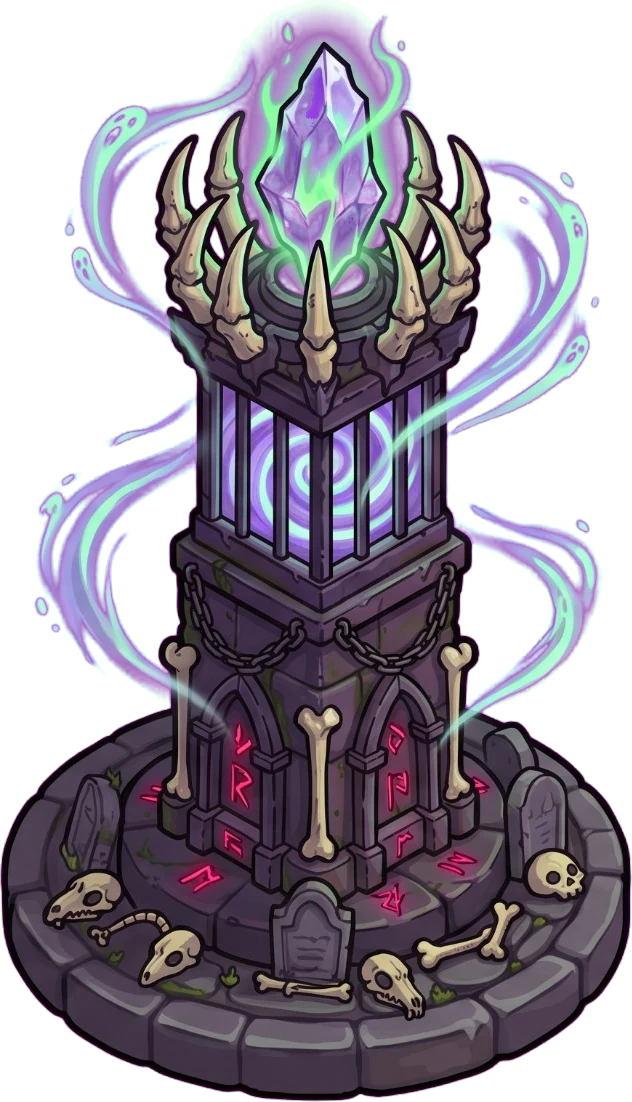
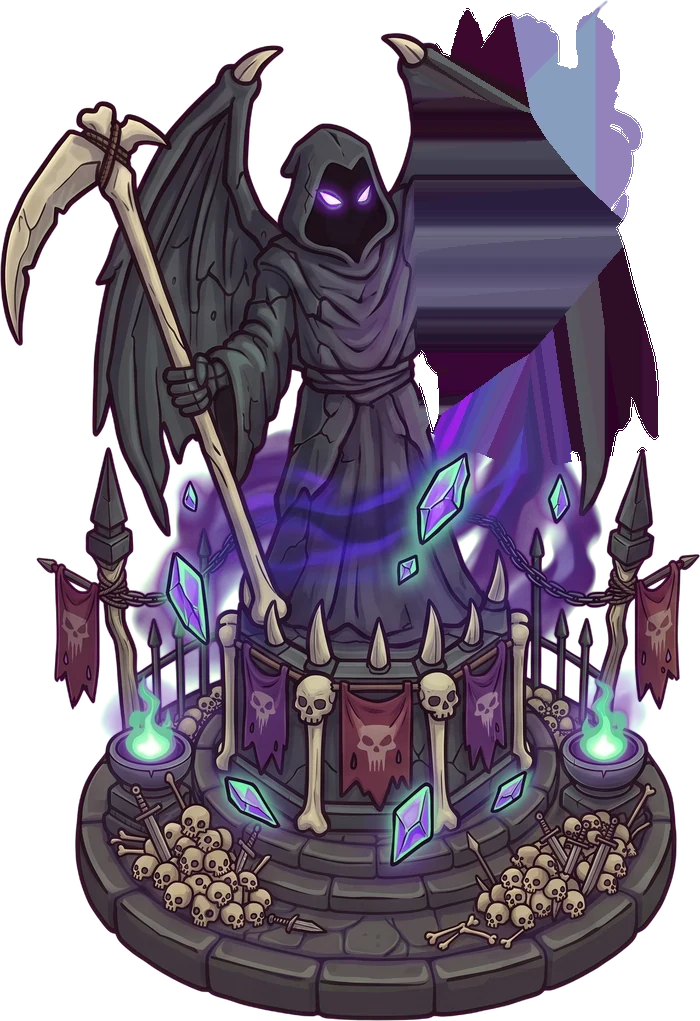
Ruh Feneri 4. kademe görselleri (Gemini): Ruh Emici (elinde ruh kristali, mor gözler) ve Ruh Kafesi (zincirli hayalet kafesi, kızıl gözler); kol ayrı katman (LANTERN_FORM): sallanır, savaşta kalkar, ışın kristal/kafesten çıkar. Eski 4. kademe fener görselleri ve saldırı şeritleri kalktı. Lanet Kules

diff --git a/sinir-kalesi/js/game.js b/sinir-kalesi/js/game.js
@@ -2727,7 +2727,7 @@ const angDiff = (a, b) => Math.atan2(Math.sin(a - b), Math.cos(a - b));
 const TOWER_EYE = { altar: [[0.5, 0.14], [0.48, 0.12], [0.505, 0.38]], archer: [[0.5, 0.14], [0.5, 0.1], [0.5, 0.12]], mage: [[0.72, 0.5], [0.5, 0.28], [0.5, 0.3]], artillery: [[0.47, 0.36], [0.42, 0.37], [0.45, 0.36]] };
 function towerEye(t, ts) {
   ts = ts || towerSprite(t);
-  if (NECRO && t.type === 'mage' && ts && lanternRig(t, ts)) return lanternPt(t, ts, LANTERN_RIG[t.lvl].core); // ışın ve ruhlar fenerin içinden
+  if (NECRO && t.type === 'mage' && ts && lanternRig(t, ts)) return lanternPt(t, ts, lanternRig(t, ts).core); // ışın ve ruhlar fenerin (kristalin, kafesin) içinden
   const E = (TOWER_EYE[t.type] || [])[t.lvl];
   if (!ts || !E) return { x: t.x, y: t.y - 40 };
   return { x: t.x - ts.w / 2 + E[0] * ts.w, y: ts.bottom - ts.h + E[1] * ts.h };
@@ -2909,7 +2909,7 @@ function updateTower(t, dt) {
         t.ghostCd = gh.cd; t.shotAnim = 0.3;
         G.ghosts.push({ p: q.p, d: q.along, end: q.along - L.range * 2.2, hit: new Set(), dmg: gh.dmg, fear: gh.fear, t: 0, x: q.x, y: q.y });
         const GF = towerForm(t), gts = GF && towerSprite(t);
-        if (GF && GF.cageAt && gts) { const c = formPoint(t, gts, GF.cageAt); G.effects.push({ kind: 'zap', x0: c.x, y0: c.y, x1: q.x, y1: q.y - 10, t: 0, dur: 0.35, w: 1.4, seed: rand(0, 99), col: 'rgb(190,140,255)' }); } // hayalet kafesten süzülür
+        if (GF && GF.cageAt && gts) { const c = lanternRig(t, gts) ? towerEye(t, gts) : formPoint(t, gts, GF.cageAt); G.effects.push({ kind: 'zap', x0: c.x, y0: c.y, x1: q.x, y1: q.y - 10, t: 0, dur: 0.35, w: 1.4, seed: rand(0, 99), col: 'rgb(190,140,255)' }); } // hayalet kafesten süzülür
         sfx('scream');
       } else t.ghostCd = 0.4;
     }
@@ -2923,7 +2923,7 @@ function updateTower(t, dt) {
       if (v) {
         t.cageCd = CF.cage.cd; const T = CF.cage.t * (v.def.chief ? 0.5 : 1);
         v.cageT = T; stunEnemy(v, T); t.shotAnim = 0.3;
-        const cts = towerSprite(t), c = cts ? formPoint(t, cts, CF.cageAt) : { x: t.x, y: t.y - 50 };
+        const cts = towerSprite(t), c = cts ? (lanternRig(t, cts) ? towerEye(t, cts) : formPoint(t, cts, CF.cageAt)) : { x: t.x, y: t.y - 50 };
         G.effects.push({ kind: 'zap', x0: c.x, y0: c.y, x1: v.x, y1: aimY(v), t: 0, dur: 0.4, w: 1.6, seed: rand(0, 99), col: 'rgb(200,140,255)' });
         floatText(v.x, v.y - (CHAR_H['enemy_' + v.type] || 24) - 12, 'Ruh Hapsi!', '#d8a8ff'); sfx('magic');
       } else t.cageCd = 0.5;
@@ -2941,7 +2941,7 @@ function updateTower(t, dt) {
   let sx = t.x, sy = ts ? ts.bottom - ts.h * TOWER_TOP[t.type] : t.y - 34;
   if (ts) { const o = towerEye(t, ts); sx = o.x; sy = o.y + (t.type === 'mage' ? 8 : 0); }
   const MF = t.type === 'mage' && towerForm(t);
-  if (MF) { const o = formPoint(t, ts, MF.src); sx = o.x; sy = o.y + 8; } // ışın kristalden / kızıl gözden
+  if (MF) { const o = lanternRig(t, ts) ? towerEye(t, ts) : formPoint(t, ts, MF.src); sx = o.x; sy = o.y + 8; } // ışın kristalden / kafesten (kol oynadıkça izler)
   if (t.type === 'mage') {
     const d = dist(sx, sy, e.x, e.y);
     const dr = abRank(t, 'drain');
@@ -5702,8 +5702,8 @@ const TOWER_FORM = {
   // 4. kademe yolları (11 Eki): aynı açık tepeli kule; Ağır Arbaletçiler seyrek ve ağır, Hayalet Okçular sık ve hafif (ikisi de 3. kademenin ~1,3 katı hasar/sn)
   archer_fan: { noAnim: true, w: 1.14, rate: 1.9, dmg: 2.6, range: 1.12, fly: 1, archers: true },
   archer_bow: { noAnim: true, img: 'tower_archer_fan', w: 1.14, rate: 0.42, dmg: 0.55, range: 1.08, fly: 1.3, archers: true },
-  mage_drain: { w: 1.1, src: [0.49, 0.1], rate: 0.9, ramp: 0.12, rampMax: 0.6, col: 'rgb(190,140,255)' },
-  mage_ghost: { w: 1.15, src: [0.345, 0.43], cageAt: [0.55, 0.3], col: 'rgb(255,80,80)', cage: { cd: 8, t: 2.2 } },
+  mage_drain: { noAnim: true, w: 1, src: [0.73, 0.24], rate: 0.9, ramp: 0.12, rampMax: 0.6, col: 'rgb(190,140,255)' },
+  mage_ghost: { noAnim: true, w: 1, src: [0.73, 0.33], cageAt: [0.73, 0.33], col: 'rgb(255,80,80)', cage: { cd: 8, t: 2.2 } },
   // Veba Kazanı: corpse -> Ceset Mancınığı (kova sağ üstte; hep ceset yığını fırlatır, uzun menzil), plague -> Kara Veba Kazanı (ağızdan veba topu)
   // Lanet Kulesi: rite -> Kan Mabedi (kızıl bağlar kâseden çıkar), blight -> Kara Lanet Mabedi (lanet küreden, ölenlerin kalkma şansı +%10)
 };
@@ -6718,9 +6718,14 @@ const LANTERN_RIG = [
   { pivot: [61, 14], swing: 0.022, f: 0.9, raiseA: -0.17, lift: 0, core: [73, 28], eyes: [[44.5, 12], [50.5, 12]], runes: [[37, 62, 0.06], [56, 67, 0.04]], hands: [[10, 72], [27, 80], [69, 62], [64, 81], [85, 73]] },
   { pivot: [75, 2], swing: 0.035, f: 0.8, raiseA: -0.05, lift: -0.03, core: [73, 30], eyes: [[47, 19.5], [51.5, 19.5]], braziers: [[20, 71.5], [86, 71.5]], vortex: [70, 47, 0.2] },
 ];
-const lanternRig = (t, ts) => (ts.name === 'tower_mage_' + (t.lvl + 1) && LANTERN_RIG[t.lvl] && spr(ts.name + '_arm') ? LANTERN_RIG[t.lvl] : null);
+// 4. kademe (10 Eki, Caner'in görseli): aynı pozda kanatlı ölüm; elinde kristal (Ruh Emici) / zincirli kafes (Ruh Kafesi)
+const LANTERN_FORM = {
+  tower_mage_drain: { pivot: [76, 3], swing: 0.03, f: 0.8, raiseA: -0.05, lift: -0.03, core: [73, 24], eyes: [[45.5, 19], [52, 19]], eyeCol: '190,110,255', braziers: [[21, 73], [86, 73]], crystal: true },
+  tower_mage_ghost: { pivot: [76, 2], swing: 0.045, f: 0.75, raiseA: -0.05, lift: -0.03, core: [73, 33], eyes: [[45.5, 18.5], [51.5, 18.5]], eyeCol: '255,60,50', braziers: [[21, 72], [86, 72]] },
+};
+const lanternRig = (t, ts) => { const R = LANTERN_FORM[ts.name] || (ts.name === 'tower_mage_' + (t.lvl + 1) && LANTERN_RIG[t.lvl]); return R && spr(ts.name + '_arm') ? R : null; };
 function lanternXf(t, ts) {
-  const R = LANTERN_RIG[t.lvl], k = easeInOut(t.raise || 0), sd = t.x * 0.011;
+  const R = lanternRig(t, ts), k = easeInOut(t.raise || 0), sd = t.x * 0.011;
   const a = R.swing * Math.sin(time * R.f * 2 + sd) * (1 - 0.6 * k) + R.raiseA * k + (t.soulT > 0 ? Math.sin(time * 22) * 0.04 * t.soulT / 0.45 : 0);
   return { a, px: (R.pivot[0] / 100 - 0.5) * ts.w, py: -ts.h + R.pivot[1] / 100 * ts.h, dy: R.lift * ts.h * k };
 }
@@ -6744,7 +6749,8 @@ function drawLanternFx(t, ts) {
     glow(ctx, x, y, 3.2 * s, '170,255,225', 0.5 * fr); glow(ctx, x, y, 1.3 * s, '240,255,250', 0.7 * fr);
   }
   for (const [i, q] of (R.candles || []).entries()) { const p = P(q), fk = 0.75 + 0.15 * Math.sin(time * 11 + i * 2.1) + 0.1 * Math.sin(time * 23 + i); glow(ctx, p.x, p.y, 3.5 * s * fk, '120,255,200', 0.55 * fk); }
-  for (const [i, q] of (R.eyes || []).entries()) { const p = P(q); glow(ctx, p.x, p.y, (2 + 1.2 * k) * s, k > 0.3 ? '150,255,220' : '190,120,255', 0.6 + 0.25 * Math.sin(time * 3 + i) + 0.3 * k); } // göz: savaşta yeşil yanar
+  for (const [i, q] of (R.eyes || []).entries()) { const p = P(q); glow(ctx, p.x, p.y, (2 + 1.2 * k) * s, R.eyeCol || (k > 0.3 ? '150,255,220' : '190,120,255'), 0.6 + 0.25 * Math.sin(time * 3 + i) + 0.3 * k); } // göz: savaşta yeşil yanar (4. kademede kendi rengi)
+  if (R.crystal) { const r = 1 + (t.ramp || 0) * 0.8; glow(ctx, c.x, c.y, 16 * s * r, '190,130,255', 0.25 + 0.15 * beat + 0.3 * (t.ramp || 0)); } // Ruh Emici: ışın güçlendikçe kristal büyür
   for (const [i, q] of (R.braziers || []).entries()) { const p = P(q), fk = 0.75 + 0.15 * Math.sin(time * 10 + i * 2.7) + 0.1 * Math.sin(time * 21 + i); glow(ctx, p.x, p.y, 8 * s * fk, '120,255,150', 0.5 * fk); if (Math.random() < 0.1) emit(G.parts, { kind: 'glow', add: true, x: p.x + rand(-2, 2) * s, y: p.y - 3 * s, vx: rand(-6, 6), vy: -rand(18, 36), col: '140,255,160', s0: 2.4, s1: 0.4, life: rand(0.6, 0.9) }); }
   for (const [i, q] of (R.runes || []).entries()) { const p = P(q); glow(ctx, p.x, p.y, q[2] * ts.w, '170,90,255', 0.18 + 0.12 * Math.sin(time * 1.8 + i * 1.4 + sd)); }
   for (const [i, q] of (R.hands || []).entries()) { const p = P(q); glow(ctx, p.x, p.y, 4 * s, '150,255,220', 0.12 + 0.1 * Math.sin(time * 2.2 + i * 1.7)); } // yerden uzanan ruh elleri soluk parlar
@@ -6798,7 +6804,7 @@ function drawNecroTowerFx(t, ts) {
       }
     } // hayalet arbaletçiler: parıltıları drawXbowMen çizer
     ctx.globalCompositeOperation = 'source-over';
-  } else if (t.type === 'mage' && towerForm(t)) {
+  } else if (t.type === 'mage' && towerForm(t) && !lanternRig(t, ts)) {
     const MF = towerForm(t), o = formPoint(t, ts, MF.src), sh2 = t.shotAnim > 0 ? t.shotAnim / 0.2 : 0;
     ctx.globalCompositeOperation = 'lighter';
     if (MF.ramp) { // kristal: mor-yeşil nabız, ışın güçlendikçe büyür

diff --git a/sinir-kalesi/index.html b/sinir-kalesi/index.html
@@ -11,7 +11,7 @@
 <canvas id="game" aria-label="Sınır Kalesi oyun alanı"></canvas>
 <script>
   // Sürüm damgası: her yayında artırılır; tarayıcı eski önbellek kopyasını kullanmaz (js ve görseller).
-  window.SURUM = '328';
+  window.SURUM = '329';
   // dil: kayıtlı seçim (yoksa Türkçe); tr/en dışındakiler için çeviri sözlüğü dil.js'ten önce yüklenir
   window.__dilYukle = (function () {
     var l = null; try { l = localStorage.getItem('sinirKalesi.lang'); } catch (e) {}

diff --git a/sinir-kalesi/yayin.html b/sinir-kalesi/yayin.html
@@ -11,7 +11,7 @@
 <canvas id="game" aria-label="Sınır Kalesi oyun alanı"></canvas>
 <script>
   // Sürüm damgası: her yayında artırılır; tarayıcı eski önbellek kopyasını kullanmaz (js ve görseller).
-  window.SURUM = '328';
+  window.SURUM = '329';
   // dil: kayıtlı seçim (yoksa Türkçe); tr/en dışındakiler için çeviri sözlüğü dil.js'ten önce yüklenir
   window.__dilYukle = (function () {
     var l = null; try { l = localStorage.getItem('sinirKalesi.lang'); } catch (e) {}

diff --git a/varliklar/ruh_feneri_isle.py b/varliklar/ruh_feneri_isle.py
@@ -11,15 +11,17 @@ from scipy import ndimage
 
 D = os.path.dirname(os.path.abspath(__file__)); IMG = os.path.join(D, '..', 'sinir-kalesi', 'img')
 POLY = {
+    'drain': [(66, 0), (82, 0), (94, 6), (94, 44), (74, 46), (60, 42), (59, 8)],                                 # 4. kademe Ruh Emici: yumruk + kristal + girdap
+    'ghost': [(68, 0), (82, 0), (84, 14), (97, 24), (97, 48), (82, 51), (62, 51), (53, 40), (53, 28), (60, 16), (68, 12)],  # Ruh Kafesi: zincir + kafes + eller
     1: [(58, 8), (77, 8), (77, 19), (92, 25), (93, 55.5), (55, 55.5), (52, 50), (39, 50), (39, 25), (57, 19)],  # kanca + fener
     2: [(61, 0), (86, 0), (89, 9), (100, 14), (100, 43), (80, 44), (62, 41), (57, 33), (56, 22), (61, 15)],     # kalkık kol + fener + ruh girdabı
     3: [(63, 0), (85, 0), (87, 9), (99, 21), (99, 41), (66, 41), (57, 33), (57, 21), (62, 12)],                  # yumruk + kafatası fener + üst girdap
 }
 
-subprocess.run([sys.executable, os.path.join(D, 'nm_isle.py'), 'nm_ruh_feneri_v3.jpg'], check=True, cwd=D)
+for sheet in ('nm_ruh_feneri_v3.jpg', 'nm_ruh_feneri_k4.jpg'): subprocess.run([sys.executable, os.path.join(D, 'nm_isle.py'), sheet], check=True, cwd=D)
 man = set(json.load(open(os.path.join(IMG, 'manifest.json'))))
 for n, poly in POLY.items():
-    p = os.path.join(IMG, f'tower_mage_{n}.webp')
+    p = os.path.join(IMG, f'tower_mage_{n}.webp'); full = isinstance(n, str) or n == 3  # kanatlı ölümde fenerin arkası kanat/cüppe: tamamı dolar
     im = np.array(Image.open(p).convert('RGBA')); H, W = im.shape[:2]
     mk = Image.new('L', (W, H), 0); ImageDraw.Draw(mk).polygon([(x * W / 100, y * H / 100) for x, y in poly], fill=255)
     m = np.array(mk) > 0
@@ -28,9 +30,14 @@ for n, poly in POLY.items():
     # katman kalkınca altında delik kalmasın: gövdeye 10 px'ten yakın boşaltılmış pikseller en yakın gövde rengiyle dolar (3. kademede hepsi)
     solid = body[..., 3] > 200
     dist, idx = ndimage.distance_transform_edt(~solid, return_indices=True)
-    fill = m & (im[..., 3] > 0) & (dist <= (10 if n < 3 else 400))  # 3. kademede fenerin arkası kanat ve cüppe: tamamı dolar
+    fill = m & (im[..., 3] > 0) & (dist <= (400 if full else 10))
     body[fill] = im[idx[0][fill], idx[1][fill]]; body[fill, 3] = 255
     Image.fromarray(body).save(p, 'WEBP', quality=88, method=6)
     Image.fromarray(arm).save(os.path.join(IMG, f'tower_mage_{n}_arm.webp'), 'WEBP', quality=88, method=6); man.add(f'tower_mage_{n}_arm.webp')
     print(n, W, H, 'katman px', int(m.sum()), 'dolgu px', int(fill.sum()))
 json.dump(sorted(man), open(os.path.join(IMG, 'manifest.json'), 'w'))
+# oyundaki genişlikler (nm_isle.py meta'yı 700'e çeker): kademeler büyür, 4. kademe 3. ile aynı
+meta = json.load(open(os.path.join(IMG, 'meta.json')))
+for name, w in (('tower_mage_1', 520), ('tower_mage_2', 620), ('tower_mage_3', 720), ('tower_mage_drain', 720), ('tower_mage_ghost', 720)):
+    v = meta[name]; meta[name] = [w, round(w * v[1] / v[0]), 0.13]
+json.dump(meta, open(os.path.join(IMG, 'meta.json'), 'w'))

diff --git a/varliklar/nm_isle.py b/varliklar/nm_isle.py
@@ -21,7 +21,8 @@ SHEETS = [
     ('nm_sapel.jpg', ['castle_1', 'castle_2', 'castle_3'], 'castle'),  # Mortimer'ın kara şapeli, boş balkon (eski kule: nm_kule.jpg)
     ('nm_sunak_4.jpg', ['tower_altar_rite', 'tower_altar_blight'], 'decor'),  # 4. kademe: Kan Mabedi, Kara Lanet Mabedi
     ('nm_kazan_4.jpg', [None, None], 'decor'),  # eski 4. kademe kazanları (kullanılmıyor)  # 4. kademe: Ceset Mancınığı, Kara Veba Kazanı
-    ('nm_fener_4.jpg', ['tower_mage_drain', 'tower_mage_ghost'], 'decor'),  # 4. kademe: Ruh Emici (kristal), Ruh Kafesi
+    ('nm_ruh_feneri_k4.jpg', ['tower_mage_drain', 'tower_mage_ghost'], 'tower'),  # 10 Eki: Ruh Feneri 4. kademe (Ruh Emici: kristal, Ruh Kafesi: zincirli kafes; kollar ruh_feneri_isle.py)
+    ('nm_fener_4.jpg', [None, None], 'decor'),  # eski 4. kademe fenerler  # 4. kademe: Ruh Emici (kristal), Ruh Kafesi
     ('nm_dikilitas_4.jpg', ['tower_archer_nail', None], 'decor'),  # 4. kademe: Kemik Balistası (Hayalet Okçular artık nm_hayalet_okcular.jpg'den)
     ('nm_hayalet_arbaletciler.jpg', ['unit_ghostxbow', 'unit_ghostxbow_aim'], 'decor'),  # 11 Eki: arbaletçi kulesinin iskeletleri (hazır, nişan)
     ('nm_hayalet_okcular.jpg', ['unit_ghostarcher', 'unit_ghostarcher_draw', 'tower_archer_fan'], 'decor'),  # 10 Eki: tepesi boş kule + üstünde gezen 2 elit okçu (duruş, gerilmiş yay)
